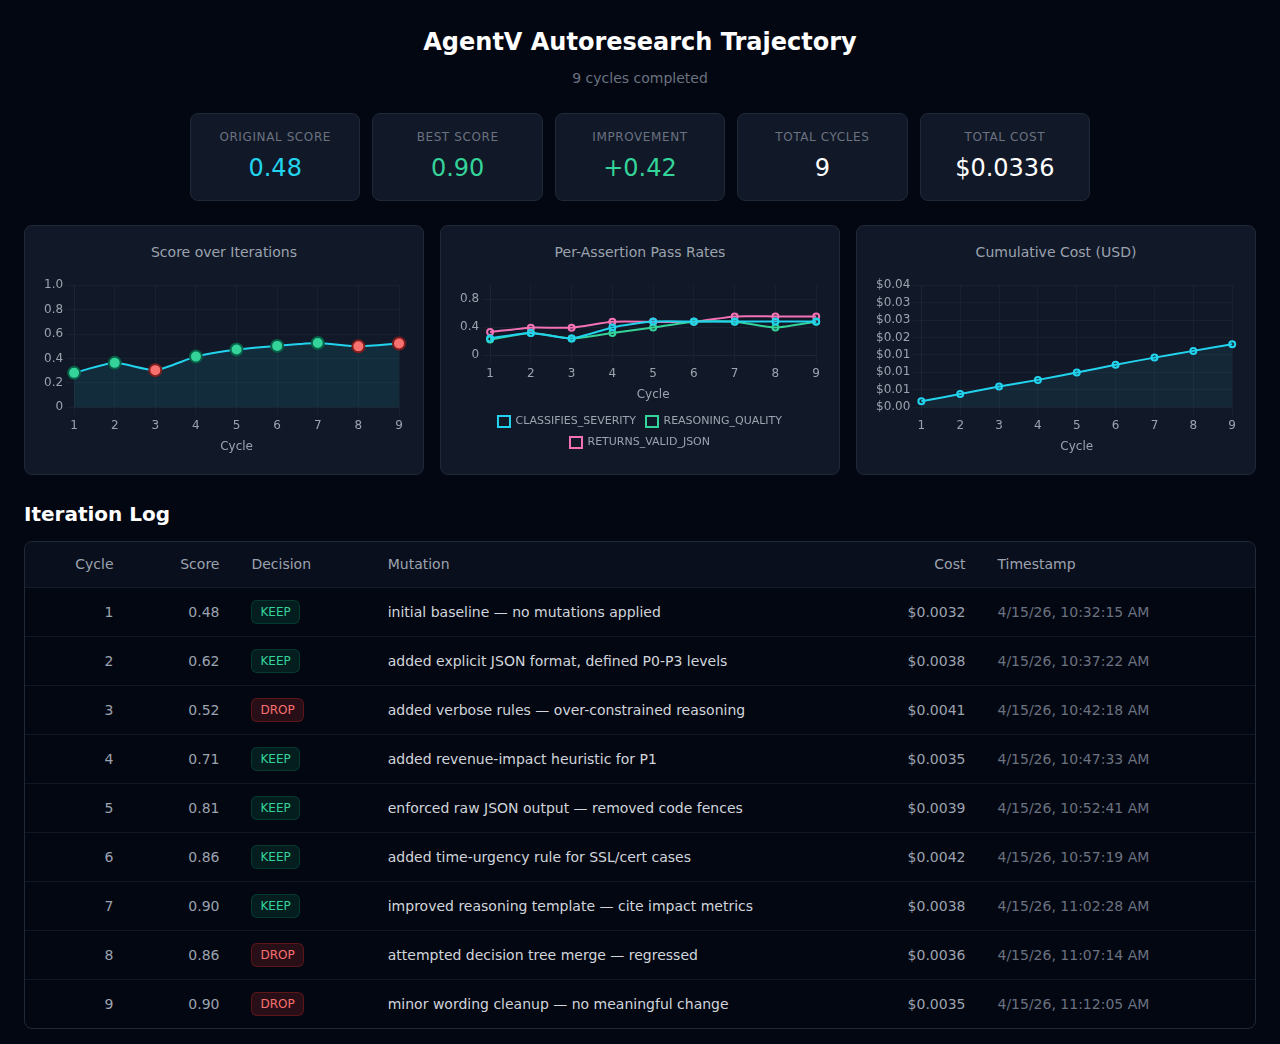
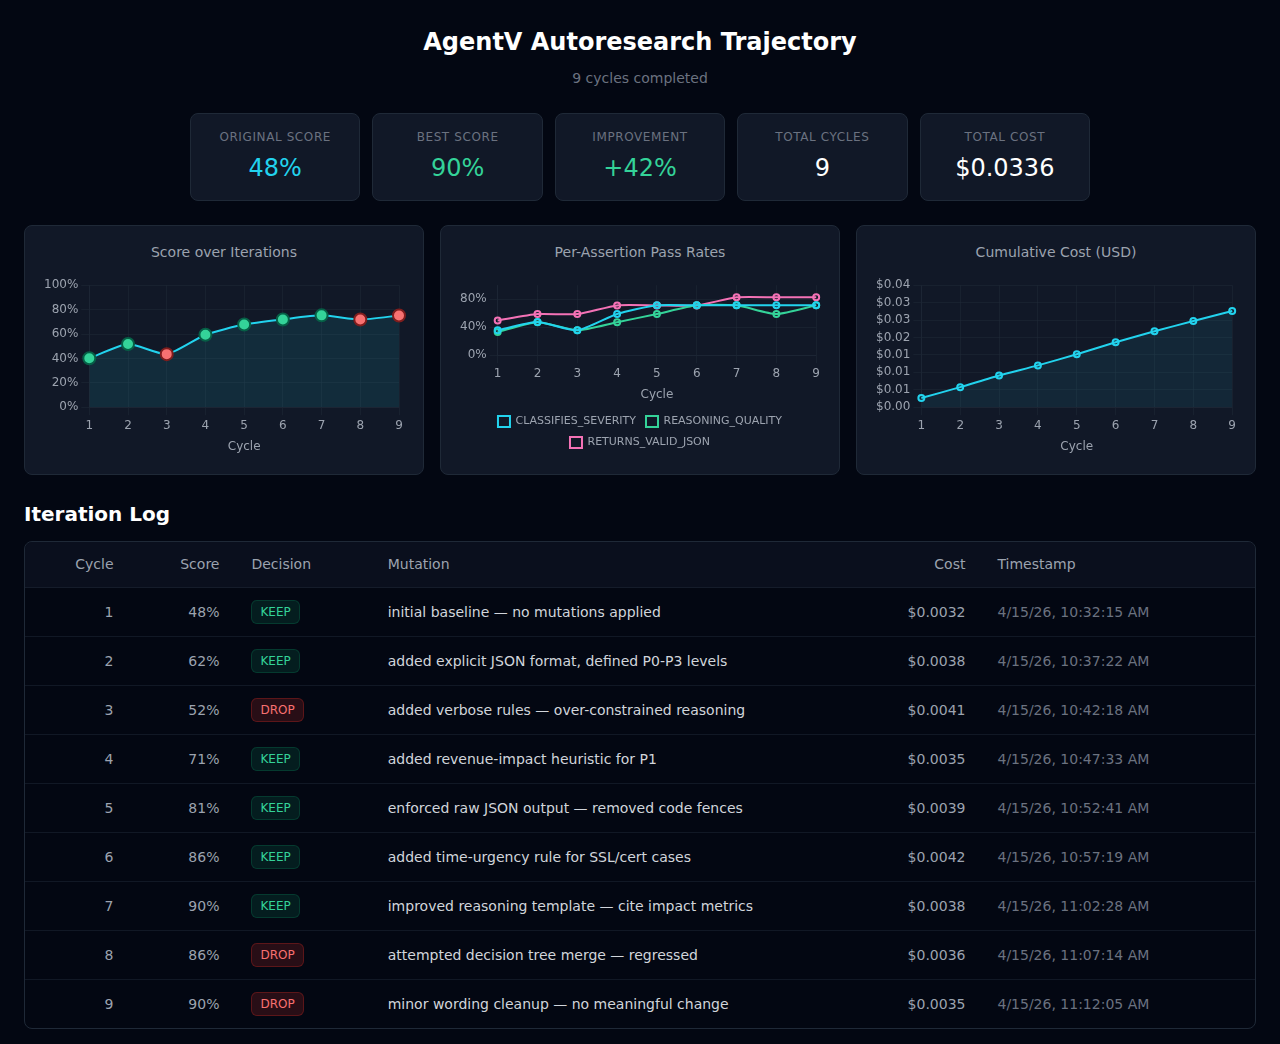
feat(bench): display scores as percentages in trajectory chart
Format all scores as percentages (48%, 90%, +42%) instead of decimals
(0.48, 0.90, +0.42) in summary cards, chart axes, tooltips, and
iteration log table. Underlying data stays 0–1 in iterations.jsonl.

diff --git a/plugins/agentv-dev/skills/agentv-bench/scripts/trajectory.html b/plugins/agentv-dev/skills/agentv-bench/scripts/trajectory.html
@@ -244,7 +244,8 @@ async function loadData() {
 }
 
 // ── Helpers ────────────────────────────────────────────────────────────
-const fmt = (n, d = 2) => (n == null ? '—' : Number(n).toFixed(d));
+const fmtPct = (n) => (n == null ? '—' : Math.round(Number(n) * 100) + '%');
+const fmtPctDelta = (n) => (n == null ? '—' : (n >= 0 ? '+' : '') + Math.round(Number(n) * 100) + '%');
 const fmtUsd = (n) => (n == null ? '—' : '$' + Number(n).toFixed(4));
 
 // ── Chart.js defaults (aligned with Studio DESIGN.md) ─────────────────
@@ -303,9 +304,9 @@ function render(data) {
   const deltaClass = delta > 0 ? 'positive' : delta < 0 ? 'negative' : 'neutral';
 
   document.getElementById('summary').innerHTML = `
-    <div class="card"><div class="label">Original Score</div><div class="value neutral">${fmt(originalScore)}</div></div>
-    <div class="card"><div class="label">Best Score</div><div class="value positive">${fmt(bestScore)}</div></div>
-    <div class="card"><div class="label">Improvement</div><div class="value ${deltaClass}">${delta >= 0 ? '+' : ''}${fmt(delta)}</div></div>
+    <div class="card"><div class="label">Original Score</div><div class="value neutral">${fmtPct(originalScore)}</div></div>
+    <div class="card"><div class="label">Best Score</div><div class="value positive">${fmtPct(bestScore)}</div></div>
+    <div class="card"><div class="label">Improvement</div><div class="value ${deltaClass}">${fmtPctDelta(delta)}</div></div>
     <div class="card"><div class="label">Total Cycles</div><div class="value">${totalCycles}</div></div>
     <div class="card"><div class="label">Total Cost</div><div class="value">${fmtUsd(totalCost)}</div></div>
   `;
@@ -325,6 +326,7 @@ function render(data) {
   document.getElementById('charts-area').style.display = '';
 
   // ── 1. Score chart (cyan line, emerald/red decision dots) ──────────
+  const scoresPct = scores.map(s => s * 100);
   const scoreCtx = document.getElementById('scoreChart').getContext('2d');
   new Chart(scoreCtx, {
     type: 'line',
@@ -332,7 +334,7 @@ function render(data) {
       labels,
       datasets: [{
         label: 'Score',
-        data: scores,
+        data: scoresPct,
         borderColor: '#22d3ee',                    // cyan-400
         backgroundColor: 'rgba(34, 211, 238, 0.1)', // cyan-400/10
         borderWidth: 2,
@@ -347,13 +349,14 @@ function render(data) {
     options: {
       responsive: true,
       scales: {
-        y: { min: 0, max: 1, ticks: { stepSize: 0.1 } },
+        y: { min: 0, max: 100, ticks: { stepSize: 10, callback: v => v + '%' } },
         x: { title: { display: true, text: 'Cycle' } },
       },
       plugins: {
         legend: { display: false },
         tooltip: {
           callbacks: {
+            label: (ctx) => `Score: ${Math.round(ctx.parsed.y)}%`,
             afterLabel: (ctx) => `Decision: ${decisions[ctx.dataIndex] || '—'}`,
           },
         },
@@ -369,7 +372,7 @@ function render(data) {
       labels,
       datasets: assertionKeys.map((key, i) => ({
         label: key,
-        data: sorted.map(it => (it.assertions || {})[key] ?? null),
+        data: sorted.map(it => { const v = (it.assertions || {})[key]; return v == null ? null : v * 100; }),
         borderColor: CHART_COLORS[i % CHART_COLORS.length],
         backgroundColor: 'transparent',
         borderWidth: 2,
@@ -381,11 +384,12 @@ function render(data) {
     options: {
       responsive: true,
       scales: {
-        y: { min: 0, max: 1, ticks: { stepSize: 0.2 } },
+        y: { min: 0, max: 100, ticks: { stepSize: 20, callback: v => v + '%' } },
         x: { title: { display: true, text: 'Cycle' } },
       },
       plugins: {
         legend: { position: 'bottom', labels: { boxWidth: 12, padding: 10, font: { size: 11 } } },
+        tooltip: { callbacks: { label: (ctx) => `${ctx.dataset.label}: ${Math.round(ctx.parsed.y)}%` } },
       },
     },
   });
@@ -428,7 +432,7 @@ function render(data) {
       : '—';
     return `<tr>
       <td class="num">${it.cycle}</td>
-      <td class="num">${fmt(it.score)}</td>
+      <td class="num">${fmtPct(it.score)}</td>
       <td>${badge}</td>
       <td class="mutation-cell" title="${(it.mutation || '').replace(/"/g, '&quot;')}">${it.mutation || '—'}</td>
       <td class="num">${fmtUsd(it.cost_usd)}</td>
